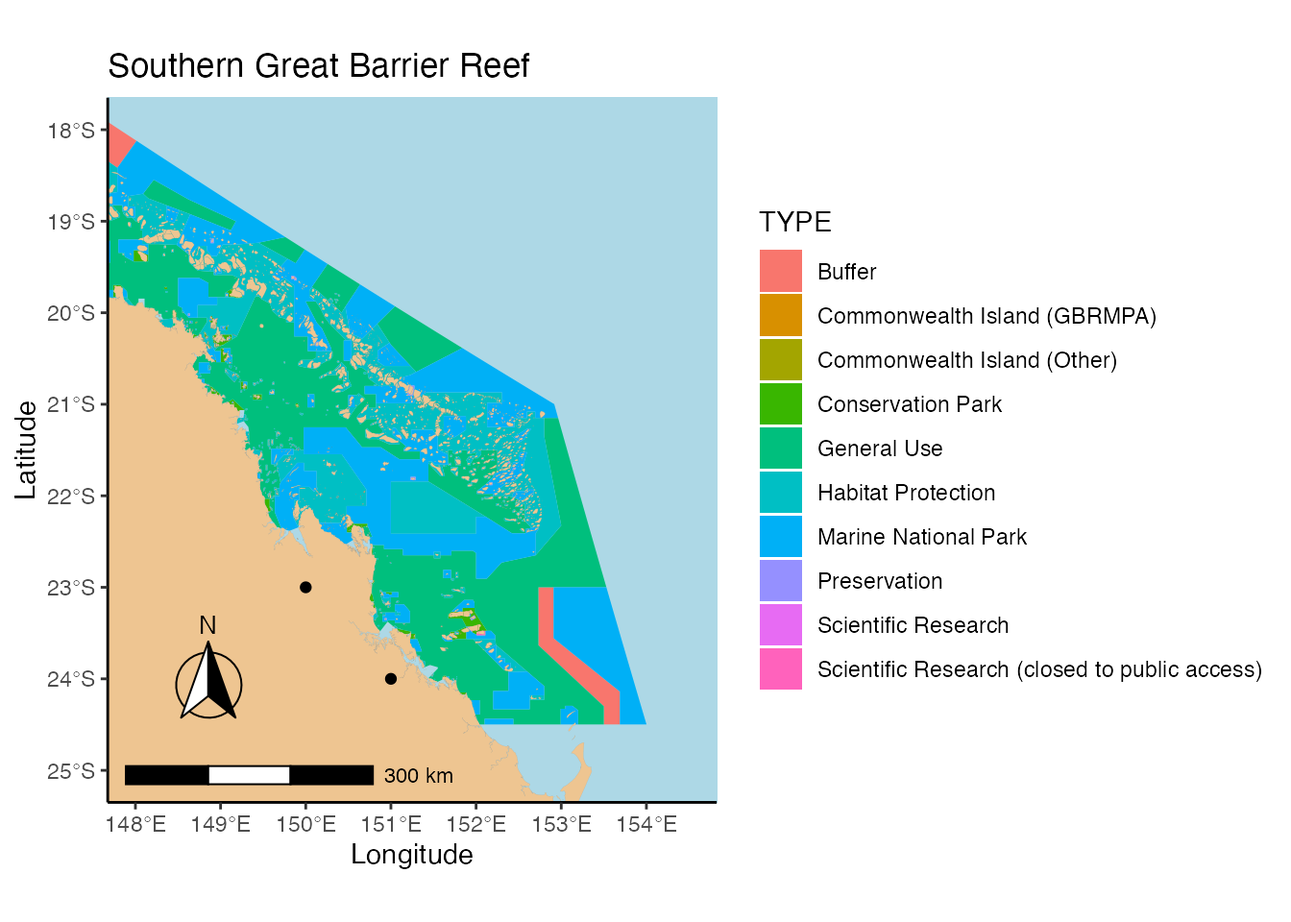
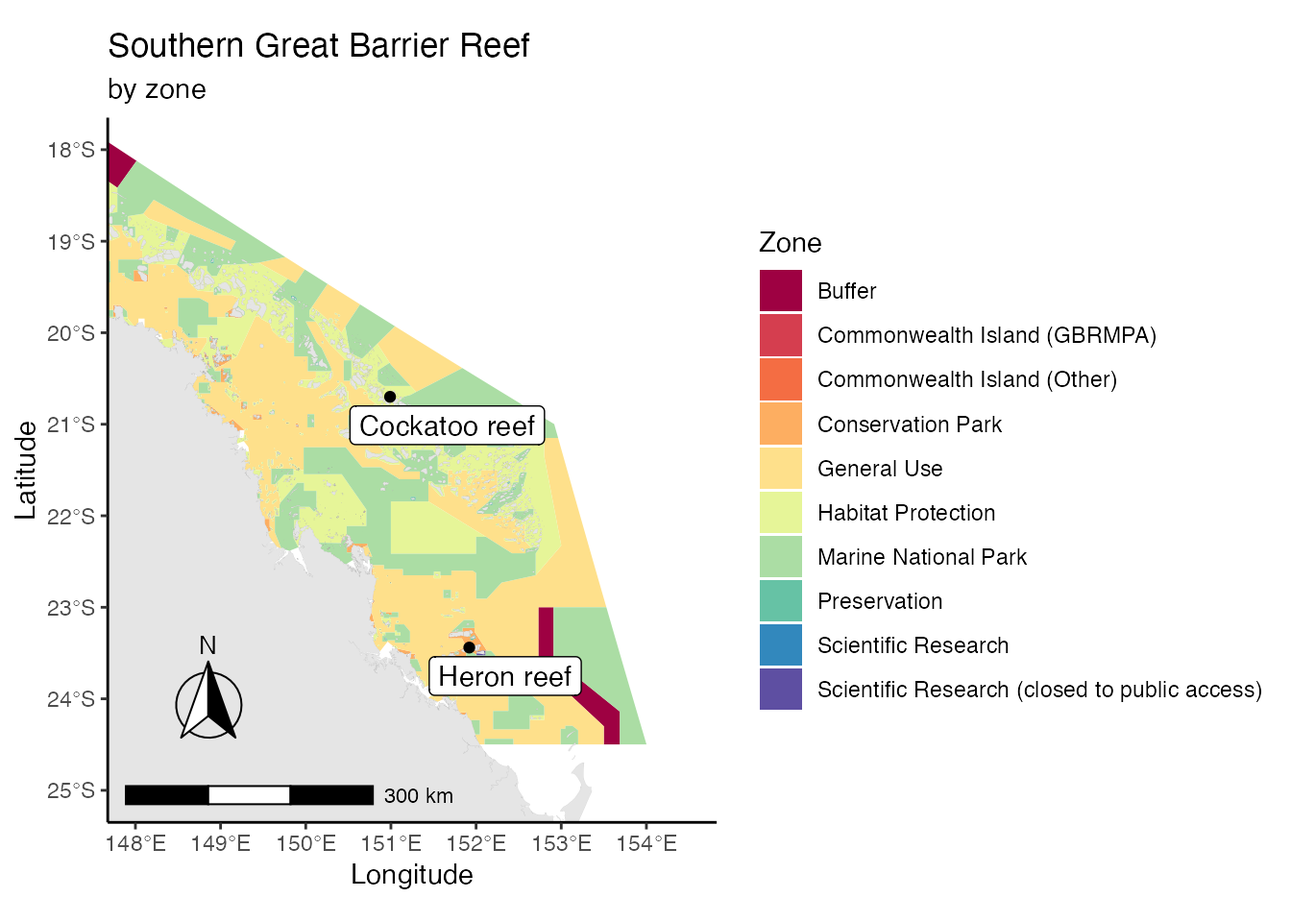
Built site for gisaimsr: 0.0.1@1b437bd

diff --git a/articles/examples.html b/articles/examples.html
@@ -128,7 +128,8 @@
 <span class="kw"><a href="https://rdrr.io/r/base/library.html">library</a></span><span class="op">(</span><span class="va"><a href="https://paleolimbot.github.io/ggspatial">ggspatial</a></span><span class="op">)</span>
 <span class="kw"><a href="https://rdrr.io/r/base/library.html">library</a></span><span class="op">(</span><span class="va"><a href="https://r-spatial.github.io/sf/">sf</a></span><span class="op">)</span>
 <span class="kw"><a href="https://rdrr.io/r/base/library.html">library</a></span><span class="op">(</span><span class="va"><a href="https://open-aims.github.io/dataaimsr">dataaimsr</a></span><span class="op">)</span>
-<span class="kw"><a href="https://rdrr.io/r/base/library.html">library</a></span><span class="op">(</span><span class="va"><a href="https://open-aims.github.io/gisaimsr">gisaimsr</a></span><span class="op">)</span></pre></div>
+<span class="kw"><a href="https://rdrr.io/r/base/library.html">library</a></span><span class="op">(</span><span class="va"><a href="https://open-aims.github.io/gisaimsr">gisaimsr</a></span><span class="op">)</span>
+<span class="kw"><a href="https://rdrr.io/r/base/library.html">library</a></span><span class="op">(</span><span class="va"><a href="http://github.com/slowkow/ggrepel">ggrepel</a></span><span class="op">)</span></pre></div>
 <p>We recommend always loading the <code>sf</code> package whenever loading <code>gisaimsr</code>—this will facilitate the summary view of the datasets. We look at what the <code>gbr_feat</code> object comprises:</p>
 <div class="sourceCode" id="cb2"><pre class="downlit">
 <span class="va">gbr_feat</span></pre></div>
@@ -259,34 +260,42 @@
     <span class="fu"><a href="https://ggplot2.tidyverse.org/reference/ggsf.html">geom_sf</a></span><span class="op">(</span><span class="op">)</span> <span class="op">+</span>
     <span class="fu">theme_classic</span><span class="op">(</span><span class="op">)</span></pre></div>
 <p><img src="examples_files/figure-html/unnamed-chunk-8-1.png" width="480"></p>
-<p>As we can see the default of <code>geom_sf</code> is not necessarily nice. We can play with some of the arguments in the function to make the plots more pleasing, including colouring the land based on a particular field (i.e. column), and adding some ocean colour to the plot’s background</p>
+<p>As we can see the default of <code>geom_sf</code> is not necessarily nice. We can play with some of the arguments in the function to make the plots more pleasant, including colouring the land based on a particular field (i.e. column), and adding some ocean colour to the plot’s background</p>
 <div class="sourceCode" id="cb14"><pre class="downlit">
 <span class="fu"><a href="https://ggplot2.tidyverse.org/reference/ggplot.html">ggplot</a></span><span class="op">(</span>data <span class="op">=</span> <span class="va">gbr_feat</span><span class="op">)</span> <span class="op">+</span>
   <span class="fu"><a href="https://ggplot2.tidyverse.org/reference/ggsf.html">geom_sf</a></span><span class="op">(</span>mapping <span class="op">=</span> <span class="fu"><a href="https://ggplot2.tidyverse.org/reference/aes.html">aes</a></span><span class="op">(</span>fill <span class="op">=</span> <span class="va">FEAT_NAME</span><span class="op">)</span>, lwd <span class="op">=</span> <span class="fl">0.01</span><span class="op">)</span> <span class="op">+</span>
-  <span class="fu">theme_classic</span><span class="op">(</span><span class="op">)</span> <span class="op">+</span>
-  <span class="fu">labs</span><span class="op">(</span>x <span class="op">=</span> <span class="st">"Longitude"</span>,
-       y <span class="op">=</span> <span class="st">"Latitude"</span>,
-       title <span class="op">=</span> <span class="st">"The Great Barrier Reef"</span><span class="op">)</span></pre></div>
-<p><img src="examples_files/figure-html/unnamed-chunk-9-1.png" width="480"></p>
-<p>We can also overlay different objects from <code>gisaimsr</code>, clip the map to a particular area, and add points to our map</p>
-<div class="sourceCode" id="cb15"><pre class="downlit">
-<span class="va">coords</span> <span class="op">&lt;-</span> <span class="fu"><a href="https://rdrr.io/r/base/data.frame.html">data.frame</a></span><span class="op">(</span>lat <span class="op">=</span> <span class="fu"><a href="https://rdrr.io/r/base/c.html">c</a></span><span class="op">(</span><span class="op">-</span><span class="fl">23</span>, <span class="op">-</span><span class="fl">24</span><span class="op">)</span>, lon <span class="op">=</span> <span class="fu"><a href="https://rdrr.io/r/base/c.html">c</a></span><span class="op">(</span><span class="fl">150</span>, <span class="fl">151</span><span class="op">)</span><span class="op">)</span>
-<span class="fu"><a href="https://ggplot2.tidyverse.org/reference/ggplot.html">ggplot</a></span><span class="op">(</span><span class="op">)</span> <span class="op">+</span>
-  <span class="fu"><a href="https://ggplot2.tidyverse.org/reference/ggsf.html">geom_sf</a></span><span class="op">(</span>data <span class="op">=</span> <span class="va">gbr_zoning</span>, mapping <span class="op">=</span> <span class="fu"><a href="https://ggplot2.tidyverse.org/reference/aes.html">aes</a></span><span class="op">(</span>fill <span class="op">=</span> <span class="va">TYPE</span><span class="op">)</span>, colour <span class="op">=</span> <span class="cn">NA</span><span class="op">)</span> <span class="op">+</span>
-  <span class="fu"><a href="https://ggplot2.tidyverse.org/reference/ggsf.html">geom_sf</a></span><span class="op">(</span>data <span class="op">=</span> <span class="va">gbr_feat</span>, lwd <span class="op">=</span> <span class="fl">0.01</span>, fill <span class="op">=</span> <span class="st">"burlywood2"</span><span class="op">)</span> <span class="op">+</span>
-  <span class="fu"><a href="https://paleolimbot.github.io/ggspatial/reference/annotation_scale.html">annotation_scale</a></span><span class="op">(</span>location <span class="op">=</span> <span class="st">"bl"</span>, width_hint <span class="op">=</span> <span class="fl">0.5</span><span class="op">)</span> <span class="op">+</span>
-  <span class="fu"><a href="https://paleolimbot.github.io/ggspatial/reference/annotation_north_arrow.html">annotation_north_arrow</a></span><span class="op">(</span>location <span class="op">=</span> <span class="st">"bl"</span>, which_north <span class="op">=</span> <span class="st">"true"</span>,
-      pad_x <span class="op">=</span> <span class="fu">unit</span><span class="op">(</span><span class="fl">0.25</span>, <span class="st">"in"</span><span class="op">)</span>, pad_y <span class="op">=</span> <span class="fu">unit</span><span class="op">(</span><span class="fl">0.4</span>, <span class="st">"in"</span><span class="op">)</span>,
-      style <span class="op">=</span> <span class="va">north_arrow_fancy_orienteering</span><span class="op">)</span> <span class="op">+</span>
-  <span class="fu"><a href="https://ggplot2.tidyverse.org/reference/ggsf.html">coord_sf</a></span><span class="op">(</span>xlim <span class="op">=</span> <span class="fu"><a href="https://rdrr.io/r/base/c.html">c</a></span><span class="op">(</span><span class="fl">148</span>, <span class="fl">154.5</span><span class="op">)</span>, ylim <span class="op">=</span> <span class="fu"><a href="https://rdrr.io/r/base/c.html">c</a></span><span class="op">(</span><span class="op">-</span><span class="fl">25</span>, <span class="op">-</span><span class="fl">18</span><span class="op">)</span><span class="op">)</span> <span class="op">+</span>
-  <span class="fu">geom_point</span><span class="op">(</span>data <span class="op">=</span> <span class="va">coords</span>, mapping <span class="op">=</span> <span class="fu"><a href="https://ggplot2.tidyverse.org/reference/aes.html">aes</a></span><span class="op">(</span>x <span class="op">=</span> <span class="va">lon</span>, y <span class="op">=</span> <span class="va">lat</span><span class="op">)</span><span class="op">)</span> <span class="op">+</span>
   <span class="fu">theme_classic</span><span class="op">(</span><span class="op">)</span> <span class="op">+</span>
   <span class="fu">theme</span><span class="op">(</span>panel.background <span class="op">=</span> <span class="fu">element_rect</span><span class="op">(</span>fill <span class="op">=</span> <span class="st">"lightblue"</span>,
                                         colour <span class="op">=</span> <span class="st">"lightblue"</span>,
                                         size <span class="op">=</span> <span class="fl">0.5</span>, linetype <span class="op">=</span> <span class="st">"solid"</span><span class="op">)</span><span class="op">)</span> <span class="op">+</span>
   <span class="fu">labs</span><span class="op">(</span>x <span class="op">=</span> <span class="st">"Longitude"</span>,
        y <span class="op">=</span> <span class="st">"Latitude"</span>,
-       title <span class="op">=</span> <span class="st">"Southern Great Barrier Reef"</span><span class="op">)</span></pre></div>
+       title <span class="op">=</span> <span class="st">"The Great Barrier Reef"</span>,
+       subtitle <span class="op">=</span> <span class="st">"by geographic feature"</span><span class="op">)</span> <span class="op">+</span>
+  <span class="fu">scale_fill_brewer</span><span class="op">(</span>name <span class="op">=</span> <span class="st">"Type"</span>, palette <span class="op">=</span> <span class="st">"Spectral"</span><span class="op">)</span></pre></div>
+<p><img src="examples_files/figure-html/unnamed-chunk-9-1.png" width="480"></p>
+<p>We can also overlay different objects from <code>gisaimsr</code>, clip the map to a particular area, and add points to our map</p>
+<div class="sourceCode" id="cb15"><pre class="downlit">
+<span class="va">coords</span> <span class="op">&lt;-</span> <span class="fu"><a href="https://rdrr.io/r/base/data.frame.html">data.frame</a></span><span class="op">(</span>reef <span class="op">=</span> <span class="fu"><a href="https://rdrr.io/r/base/c.html">c</a></span><span class="op">(</span><span class="st">"Heron reef"</span>, <span class="st">"Cockatoo reef"</span><span class="op">)</span>, lat <span class="op">=</span> <span class="fu"><a href="https://rdrr.io/r/base/c.html">c</a></span><span class="op">(</span><span class="op">-</span><span class="fl">23.44</span>, <span class="op">-</span><span class="fl">20.70</span><span class="op">)</span>, lon <span class="op">=</span> <span class="fu"><a href="https://rdrr.io/r/base/c.html">c</a></span><span class="op">(</span><span class="fl">151.92</span>, <span class="fl">150.99</span><span class="op">)</span><span class="op">)</span>
+<span class="fu"><a href="https://ggplot2.tidyverse.org/reference/ggplot.html">ggplot</a></span><span class="op">(</span><span class="op">)</span> <span class="op">+</span>
+  <span class="fu"><a href="https://ggplot2.tidyverse.org/reference/ggsf.html">geom_sf</a></span><span class="op">(</span>data <span class="op">=</span> <span class="va">gbr_zoning</span>, mapping <span class="op">=</span> <span class="fu"><a href="https://ggplot2.tidyverse.org/reference/aes.html">aes</a></span><span class="op">(</span>fill <span class="op">=</span> <span class="va">TYPE</span><span class="op">)</span>, colour <span class="op">=</span> <span class="cn">NA</span><span class="op">)</span> <span class="op">+</span>
+  <span class="fu"><a href="https://ggplot2.tidyverse.org/reference/ggsf.html">geom_sf</a></span><span class="op">(</span>data <span class="op">=</span> <span class="va">gbr_feat</span>, lwd <span class="op">=</span> <span class="fl">0.01</span>, fill <span class="op">=</span> <span class="st">"grey90"</span><span class="op">)</span> <span class="op">+</span>
+  <span class="fu"><a href="https://paleolimbot.github.io/ggspatial/reference/annotation_scale.html">annotation_scale</a></span><span class="op">(</span>location <span class="op">=</span> <span class="st">"bl"</span>, width_hint <span class="op">=</span> <span class="fl">0.5</span><span class="op">)</span> <span class="op">+</span>
+  <span class="fu"><a href="https://paleolimbot.github.io/ggspatial/reference/annotation_north_arrow.html">annotation_north_arrow</a></span><span class="op">(</span>location <span class="op">=</span> <span class="st">"bl"</span>, which_north <span class="op">=</span> <span class="st">"true"</span>,
+      pad_x <span class="op">=</span> <span class="fu">unit</span><span class="op">(</span><span class="fl">0.25</span>, <span class="st">"in"</span><span class="op">)</span>, pad_y <span class="op">=</span> <span class="fu">unit</span><span class="op">(</span><span class="fl">0.4</span>, <span class="st">"in"</span><span class="op">)</span>,
+      style <span class="op">=</span> <span class="va">north_arrow_fancy_orienteering</span><span class="op">)</span> <span class="op">+</span>
+  <span class="fu"><a href="https://ggplot2.tidyverse.org/reference/ggsf.html">coord_sf</a></span><span class="op">(</span>xlim <span class="op">=</span> <span class="fu"><a href="https://rdrr.io/r/base/c.html">c</a></span><span class="op">(</span><span class="fl">148</span>, <span class="fl">154.5</span><span class="op">)</span>, ylim <span class="op">=</span> <span class="fu"><a href="https://rdrr.io/r/base/c.html">c</a></span><span class="op">(</span><span class="op">-</span><span class="fl">25</span>, <span class="op">-</span><span class="fl">18</span><span class="op">)</span><span class="op">)</span> <span class="op">+</span>
+  <span class="fu">geom_point</span><span class="op">(</span>data <span class="op">=</span> <span class="va">coords</span>, mapping <span class="op">=</span> <span class="fu"><a href="https://ggplot2.tidyverse.org/reference/aes.html">aes</a></span><span class="op">(</span>x <span class="op">=</span> <span class="va">lon</span>, y <span class="op">=</span> <span class="va">lat</span><span class="op">)</span><span class="op">)</span> <span class="op">+</span>
+  <span class="fu"><a href="https://rdrr.io/pkg/ggrepel/man/geom_text_repel.html">geom_label_repel</a></span><span class="op">(</span>data <span class="op">=</span> <span class="va">coords</span>, 
+                   mapping <span class="op">=</span> <span class="fu"><a href="https://ggplot2.tidyverse.org/reference/aes.html">aes</a></span><span class="op">(</span>x <span class="op">=</span> <span class="va">lon</span>, y <span class="op">=</span> <span class="va">lat</span>,
+                                 label <span class="op">=</span> <span class="va">reef</span><span class="op">)</span>,
+                   hjust <span class="op">=</span> <span class="fl">0</span>, vjust <span class="op">=</span> <span class="fl">0</span><span class="op">)</span> <span class="op">+</span>
+  <span class="fu">theme_classic</span><span class="op">(</span><span class="op">)</span> <span class="op">+</span>
+  <span class="fu">labs</span><span class="op">(</span>x <span class="op">=</span> <span class="st">"Longitude"</span>,
+       y <span class="op">=</span> <span class="st">"Latitude"</span>,
+       title <span class="op">=</span> <span class="st">"Southern Great Barrier Reef"</span>,
+       subtitle <span class="op">=</span> <span class="st">"by zone"</span><span class="op">)</span> <span class="op">+</span>
+  <span class="fu">scale_fill_brewer</span><span class="op">(</span>name <span class="op">=</span> <span class="st">"Zone"</span>, palette <span class="op">=</span> <span class="st">"Spectral"</span><span class="op">)</span></pre></div>
 <p><img src="examples_files/figure-html/unnamed-chunk-10-1.png" width="672"></p>
 <p>The functions <code>annotation_scale</code> and <code>annotation_north_arrow</code> from the <a href="https://cran.r-project.org/package=ggspatial"><code>ggspatial</code></a> package allow the addition of scale bars and orientation. <code>coord_sf</code> from <a href="https://cran.r-project.org/package=ggplot2"><code>ggplot2</code></a> allows for the delimitation of the plot area. It also allows one to change the projection of the map by changing the Coordinate Reference System (CRS)</p>
 <div class="sourceCode" id="cb16"><pre class="downlit">
@@ -303,7 +312,7 @@
        subtitle <span class="op">=</span> <span class="st">"World Mollweide projection"</span><span class="op">)</span></pre></div>
 <p><img src="examples_files/figure-html/unnamed-chunk-11-1.png" width="480"></p>
 <p>The argument <code>crs</code> in <code>coord_sf</code> could have been an EPSG (European Petroleum Survey Group) code (e.g. <code>crs = sf::st_crs(7844)</code> for the new <a href="http://www.ga.gov.au/scientific-topics/positioning-navigation/geodesy/datums-projections/gda2020">GDA2020</a>). One can search for different projections and codes <a href="https://spatialreference.org/ref/epsg/?page=1">here</a> and <a href="https://epsg.io/">here</a>.</p>
-<p>Finally, you can also crop a particular dataset for a user-defined region before plotting the object. This requires some code to first create a bounding box on equivalent CRS to the target dataset to be cropped, and then some wrangling to fix any original invalid geometries from the original dataset:</p>
+<p>One can also crop a particular dataset for a user-defined region before plotting the object. This requires some code to first create a bounding box on equivalent CRS to the target dataset to be cropped, and then some wrangling to fix any original invalid geometries from the original dataset:</p>
 <div class="sourceCode" id="cb17"><pre class="downlit">
 <span class="co"># first define box</span>
 <span class="va">cropbox</span> <span class="op">&lt;-</span> <span class="fu"><a href="https://rdrr.io/pkg/raster/man/extent.html">extent</a></span><span class="op">(</span><span class="fl">140</span>, <span class="fl">146</span>, <span class="op">-</span><span class="fl">15</span>, <span class="op">-</span><span class="fl">10</span><span class="op">)</span> <span class="op">%&gt;%</span>
@@ -324,15 +333,88 @@
          y <span class="op">=</span> <span class="st">"Latitude"</span>,
          title <span class="op">=</span> <span class="st">"Northern Great Barrier Reef"</span><span class="op">)</span></pre></div>
 <p><img src="examples_files/figure-html/unnamed-chunk-12-1.png" width="480"></p>
+<p>To finalise, we also provide visualisation of the remaining datasets available in <code>gisaimsr</code>:</p>
+<div class="sourceCode" id="cb18"><pre class="downlit">
+<span class="fu"><a href="https://ggplot2.tidyverse.org/reference/ggplot.html">ggplot</a></span><span class="op">(</span><span class="op">)</span> <span class="op">+</span>
+  <span class="fu"><a href="https://ggplot2.tidyverse.org/reference/ggsf.html">geom_sf</a></span><span class="op">(</span>data <span class="op">=</span> <span class="va">gbr_bounds</span>, fill <span class="op">=</span> <span class="st">"darkred"</span>, colour <span class="op">=</span> <span class="cn">NA</span><span class="op">)</span> <span class="op">+</span>
+  <span class="fu"><a href="https://ggplot2.tidyverse.org/reference/ggsf.html">geom_sf</a></span><span class="op">(</span>data <span class="op">=</span> <span class="va">gbr_feat</span>, lwd <span class="op">=</span> <span class="fl">0.01</span>, fill <span class="op">=</span> <span class="st">"burlywood2"</span><span class="op">)</span> <span class="op">+</span>
+  <span class="fu"><a href="https://paleolimbot.github.io/ggspatial/reference/annotation_scale.html">annotation_scale</a></span><span class="op">(</span>location <span class="op">=</span> <span class="st">"bl"</span>, width_hint <span class="op">=</span> <span class="fl">0.5</span><span class="op">)</span> <span class="op">+</span>
+  <span class="fu"><a href="https://paleolimbot.github.io/ggspatial/reference/annotation_north_arrow.html">annotation_north_arrow</a></span><span class="op">(</span>location <span class="op">=</span> <span class="st">"bl"</span>, which_north <span class="op">=</span> <span class="st">"true"</span>,
+      pad_x <span class="op">=</span> <span class="fu">unit</span><span class="op">(</span><span class="fl">0.25</span>, <span class="st">"in"</span><span class="op">)</span>, pad_y <span class="op">=</span> <span class="fu">unit</span><span class="op">(</span><span class="fl">0.4</span>, <span class="st">"in"</span><span class="op">)</span>,
+      style <span class="op">=</span> <span class="va">north_arrow_fancy_orienteering</span><span class="op">)</span> <span class="op">+</span>
+  <span class="fu">theme_classic</span><span class="op">(</span><span class="op">)</span> <span class="op">+</span>
+  <span class="fu">theme</span><span class="op">(</span>panel.background <span class="op">=</span> <span class="fu">element_rect</span><span class="op">(</span>fill <span class="op">=</span> <span class="st">"lightblue"</span>,
+                                        colour <span class="op">=</span> <span class="st">"lightblue"</span>,
+                                        size <span class="op">=</span> <span class="fl">0.5</span>, linetype <span class="op">=</span> <span class="st">"solid"</span><span class="op">)</span><span class="op">)</span> <span class="op">+</span>
+  <span class="fu">labs</span><span class="op">(</span>x <span class="op">=</span> <span class="st">"Longitude"</span>,
+       y <span class="op">=</span> <span class="st">"Latitude"</span>,
+       title <span class="op">=</span> <span class="st">"The Great Barrier Reef"</span>,
+       subtitle <span class="op">=</span> <span class="st">"Marine park boundary"</span><span class="op">)</span></pre></div>
+<pre><code>## Scale on map varies by more than 10%, scale bar may be inaccurate</code></pre>
+<p><img src="examples_files/figure-html/unnamed-chunk-13-1.png" width="480"></p>
+<div class="sourceCode" id="cb20"><pre class="downlit">
+<span class="fu"><a href="https://ggplot2.tidyverse.org/reference/ggplot.html">ggplot</a></span><span class="op">(</span><span class="op">)</span> <span class="op">+</span>
+  <span class="fu"><a href="https://ggplot2.tidyverse.org/reference/ggsf.html">geom_sf</a></span><span class="op">(</span>data <span class="op">=</span> <span class="va">nrm_regions</span>,
+          mapping <span class="op">=</span> <span class="fu"><a href="https://ggplot2.tidyverse.org/reference/aes.html">aes</a></span><span class="op">(</span>fill <span class="op">=</span> <span class="va">NAME</span><span class="op">)</span>, lwd <span class="op">=</span> <span class="fl">0.01</span><span class="op">)</span> <span class="op">+</span>
+  <span class="fu">theme_classic</span><span class="op">(</span><span class="op">)</span> <span class="op">+</span>
+  <span class="fu">labs</span><span class="op">(</span>x <span class="op">=</span> <span class="st">"Longitude"</span>,
+       y <span class="op">=</span> <span class="st">"Latitude"</span>,
+       title <span class="op">=</span> <span class="st">"The Great Barrier Reef"</span>,
+       subtitle <span class="op">=</span> <span class="st">"by NRM marine regions"</span><span class="op">)</span> <span class="op">+</span>
+  <span class="fu">scale_fill_brewer</span><span class="op">(</span>name <span class="op">=</span> <span class="st">"Region"</span>, palette <span class="op">=</span> <span class="st">"Spectral"</span><span class="op">)</span></pre></div>
+<p><img src="examples_files/figure-html/unnamed-chunk-14-1.png" width="576"></p>
+<div class="sourceCode" id="cb21"><pre class="downlit">
+<span class="fu"><a href="https://ggplot2.tidyverse.org/reference/ggplot.html">ggplot</a></span><span class="op">(</span><span class="op">)</span> <span class="op">+</span>
+  <span class="fu"><a href="https://ggplot2.tidyverse.org/reference/ggsf.html">geom_sf</a></span><span class="op">(</span>data <span class="op">=</span> <span class="va">wbodies</span>,
+          mapping <span class="op">=</span> <span class="fu"><a href="https://ggplot2.tidyverse.org/reference/aes.html">aes</a></span><span class="op">(</span>fill <span class="op">=</span> <span class="va">MarineWate</span><span class="op">)</span>, lwd <span class="op">=</span> <span class="fl">0.01</span><span class="op">)</span> <span class="op">+</span>
+  <span class="fu">theme_classic</span><span class="op">(</span><span class="op">)</span> <span class="op">+</span>
+  <span class="fu">labs</span><span class="op">(</span>x <span class="op">=</span> <span class="st">"Longitude"</span>,
+       y <span class="op">=</span> <span class="st">"Latitude"</span>,
+       title <span class="op">=</span> <span class="st">"The Great Barrier Reef"</span>,
+       subtitle <span class="op">=</span> <span class="st">"by marine water bodies"</span><span class="op">)</span> <span class="op">+</span>
+  <span class="fu">scale_fill_brewer</span><span class="op">(</span>name <span class="op">=</span> <span class="st">"Type of body"</span>, palette <span class="op">=</span> <span class="st">"Spectral"</span><span class="op">)</span></pre></div>
+<p><img src="examples_files/figure-html/unnamed-chunk-15-1.png" width="576"></p>
+<div class="sourceCode" id="cb22"><pre class="downlit">
+<span class="fu"><a href="https://ggplot2.tidyverse.org/reference/ggplot.html">ggplot</a></span><span class="op">(</span><span class="op">)</span> <span class="op">+</span>
+  <span class="fu"><a href="https://ggplot2.tidyverse.org/reference/ggsf.html">geom_sf</a></span><span class="op">(</span>data <span class="op">=</span> <span class="va">qld_hydro</span>, lwd <span class="op">=</span> <span class="fl">0.01</span>, colour <span class="op">=</span> <span class="st">"dodgerblue3"</span><span class="op">)</span> <span class="op">+</span>
+  <span class="fu">theme_classic</span><span class="op">(</span><span class="op">)</span> <span class="op">+</span>
+  <span class="fu">labs</span><span class="op">(</span>x <span class="op">=</span> <span class="st">"Longitude"</span>,
+       y <span class="op">=</span> <span class="st">"Latitude"</span>,
+       title <span class="op">=</span> <span class="st">"Queensland hydrology map"</span><span class="op">)</span></pre></div>
+<p><img src="examples_files/figure-html/unnamed-chunk-16-1.png" width="480"></p>
 </div>
 <div id="further-readings" class="section level2">
 <h2 class="hasAnchor">
 <a href="#further-readings" class="anchor"></a>Further readings</h2>
 <ul>
-<li><p>Spatial data in R <a href="https://www.jessesadler.com/post/gis-with-r-intro/" class="uri">https://www.jessesadler.com/post/gis-with-r-intro/</a> <a href="https://www.flutterbys.com.au/stats/tut/tut5.4.html" class="uri">https://www.flutterbys.com.au/stats/tut/tut5.4.html</a></p></li>
-<li><p>Simple features data.frame <a href="https://r-spatial.github.io/sf/articles/sf1.html" class="uri">https://r-spatial.github.io/sf/articles/sf1.html</a> <a href="https://www.jessesadler.com/post/simple-feature-objects/" class="uri">https://www.jessesadler.com/post/simple-feature-objects/</a> <a href="https://github.com/rstudio/cheatsheets/raw/master/sf.pdf" class="uri">https://github.com/rstudio/cheatsheets/raw/master/sf.pdf</a></p></li>
-<li><p>Plotting spatial data in R <a href="https://www.r-spatial.org/r/2018/10/25/ggplot2-sf.html" class="uri">https://www.r-spatial.org/r/2018/10/25/ggplot2-sf.html</a> <a href="https://cran.r-project.org/web/packages/rnaturalearth/vignettes/rnaturalearth.html" class="uri">https://cran.r-project.org/web/packages/rnaturalearth/vignettes/rnaturalearth.html</a></p></li>
-<li><p>About Coordinate Reference Systems <a href="https://www.nceas.ucsb.edu/sites/default/files/2020-04/OverviewCoordinateReferenceSystems.pdf" class="uri">https://www.nceas.ucsb.edu/sites/default/files/2020-04/OverviewCoordinateReferenceSystems.pdf</a></p></li>
+<li>
+<p>Spatial data in R:</p>
+<ul>
+<li><p><a href="https://www.jessesadler.com/post/gis-with-r-intro/" class="uri">https://www.jessesadler.com/post/gis-with-r-intro/</a></p></li>
+<li><p><a href="https://www.flutterbys.com.au/stats/tut/tut5.4.html" class="uri">https://www.flutterbys.com.au/stats/tut/tut5.4.html</a></p></li>
+</ul>
+</li>
+<li>
+<p>Simple features data.frame:</p>
+<ul>
+<li><p><a href="https://r-spatial.github.io/sf/articles/sf1.html" class="uri">https://r-spatial.github.io/sf/articles/sf1.html</a></p></li>
+<li><p><a href="https://www.jessesadler.com/post/simple-feature-objects/" class="uri">https://www.jessesadler.com/post/simple-feature-objects/</a></p></li>
+<li><p><a href="https://github.com/rstudio/cheatsheets/raw/master/sf.pdf" class="uri">https://github.com/rstudio/cheatsheets/raw/master/sf.pdf</a></p></li>
+</ul>
+</li>
+<li>
+<p>Plotting spatial data in R:</p>
+<ul>
+<li><p><a href="https://www.r-spatial.org/r/2018/10/25/ggplot2-sf.html" class="uri">https://www.r-spatial.org/r/2018/10/25/ggplot2-sf.html</a></p></li>
+<li><p><a href="https://cran.r-project.org/web/packages/rnaturalearth/vignettes/rnaturalearth.html" class="uri">https://cran.r-project.org/web/packages/rnaturalearth/vignettes/rnaturalearth.html</a></p></li>
+</ul>
+</li>
+<li>
+<p>About Coordinate Reference Systems:</p>
+<ul>
+<li><a href="https://www.nceas.ucsb.edu/sites/default/files/2020-04/OverviewCoordinateReferenceSystems.pdf" class="uri">https://www.nceas.ucsb.edu/sites/default/files/2020-04/OverviewCoordinateReferenceSystems.pdf</a></li>
+</ul>
+</li>
 </ul>
 </div>
   </div>

diff --git a/index.html b/index.html
@@ -156,10 +156,10 @@
   <div class="dev-status">
 <h2>Dev status</h2>
 <ul class="list-unstyled">
-<li><a href="https://www.tidyverse.org/lifecycle/#experimental"><img src="https://img.shields.io/badge/lifecycle-experimental-orange.svg" alt="Lifecycle: experimental"></a></li>
+<li><a href="https://www.tidyverse.org/lifecycle/#maturing"><img src="https://img.shields.io/badge/lifecycle-maturing-blue.svg" alt="Lifecycle: maturing"></a></li>
 <li><a href="https://github.com/open-AIMS/gisaimsr/actions"><img src="https://github.com/open-AIMS/gisaimsr/workflows/R-CMD-check/badge.svg" alt="R build status"></a></li>
 <li><a href="https://choosealicense.com/"><img src="https://img.shields.io/badge/license-MIT%20+%20file%20LICENSE-lightgrey.svg" alt="license"></a></li>
-<li><a href="commits/master"><img src="https://img.shields.io/badge/Package%20version-0.0.0.9000-orange.svg" alt="packageversion"></a></li>
+<li><a href="commits/master"><img src="https://img.shields.io/badge/Package%20version-0.0.1-orange.svg" alt="packageversion"></a></li>
 <li><a href="https://github.com/open-AIMS/gisaimsr/issues/new"><img src="https://img.shields.io/badge/Ask%20us-anything-1abc9c.svg" alt="Ask Us Anything!"></a></li>
 </ul>
 </div>
